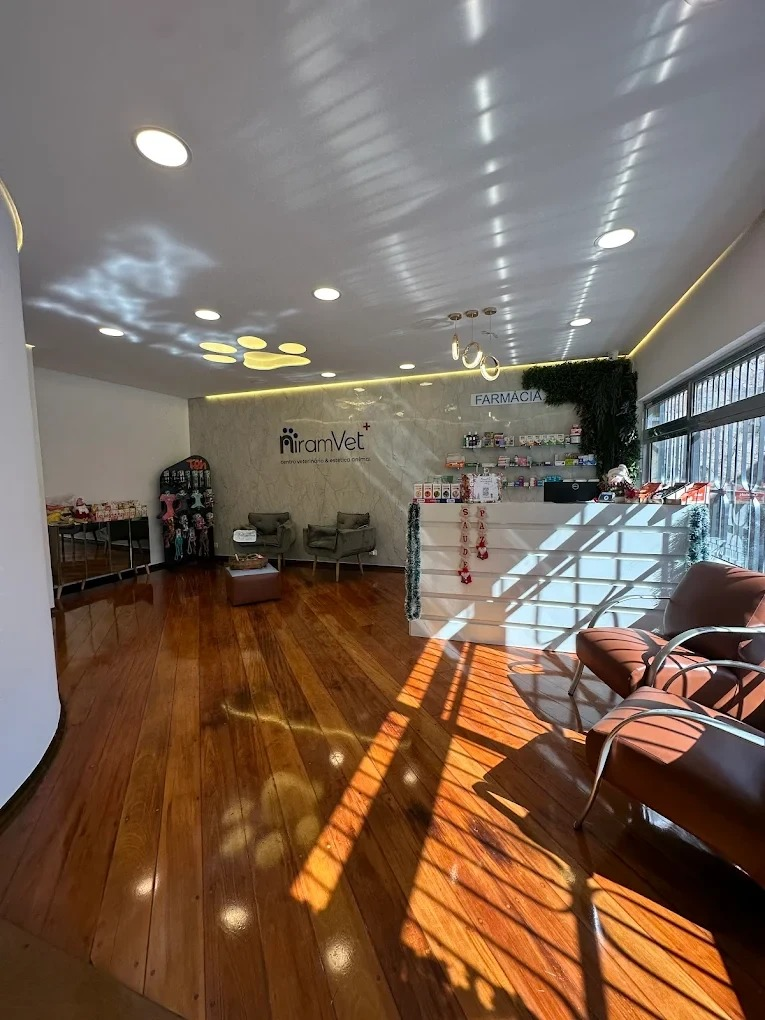
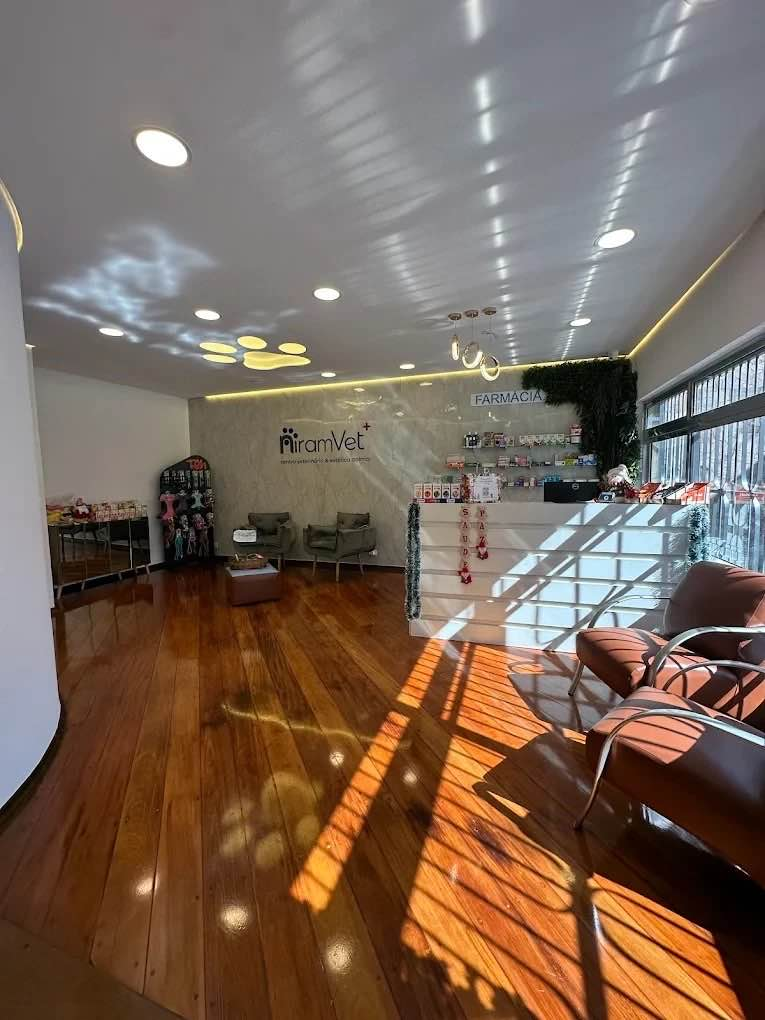
Add files via upload

diff --git a/index.html b/index.html
@@ -8,10 +8,6 @@
   <!-- End Google Tag Manager -->
   <title>Niram Vet – Centro Veterinário em Guarulhos</title>
   <meta name="description" content="Clínica veterinária em Guarulhos com atendimento humanizado, estética animal e horário estendido até 22h. 5.0 no Google." />
-  <link rel="preconnect" href="https://fonts.googleapis.com" />
-  <link rel="preconnect" href="https://fonts.gstatic.com" crossorigin />
-  <link href="https://fonts.googleapis.com/css2?family=Inter:wght@400;600;800&display=swap" rel="stylesheet" media="print" onload="this.media='all'" />
-  <noscript><link href="https://fonts.googleapis.com/css2?family=Inter:wght@400;600;800&display=swap" rel="stylesheet" /></noscript>
   <link rel="preload" as="image" href="recepcao.jpg" fetchpriority="high" />
   <style>
     *, *::before, *::after { box-sizing: border-box; margin: 0; padding: 0; }
@@ -31,7 +27,7 @@
 
     html { scroll-behavior: smooth; }
     body {
-      font-family: 'Inter', system-ui, -apple-system, sans-serif;
+      font-family: -apple-system, BlinkMacSystemFont, 'Segoe UI', system-ui, sans-serif;
       color: var(--texto);
       background: var(--branco);
       -webkit-font-smoothing: antialiased;
@@ -608,7 +604,7 @@
   <!-- TOPO -->
   <div class="topo">
     <span class="topo-dot"></span>
-    Atendimento disponível agora — Horário estendido até as 22h
+    Atendimento disponível agora
   </div>
 
   <!-- NAV -->
